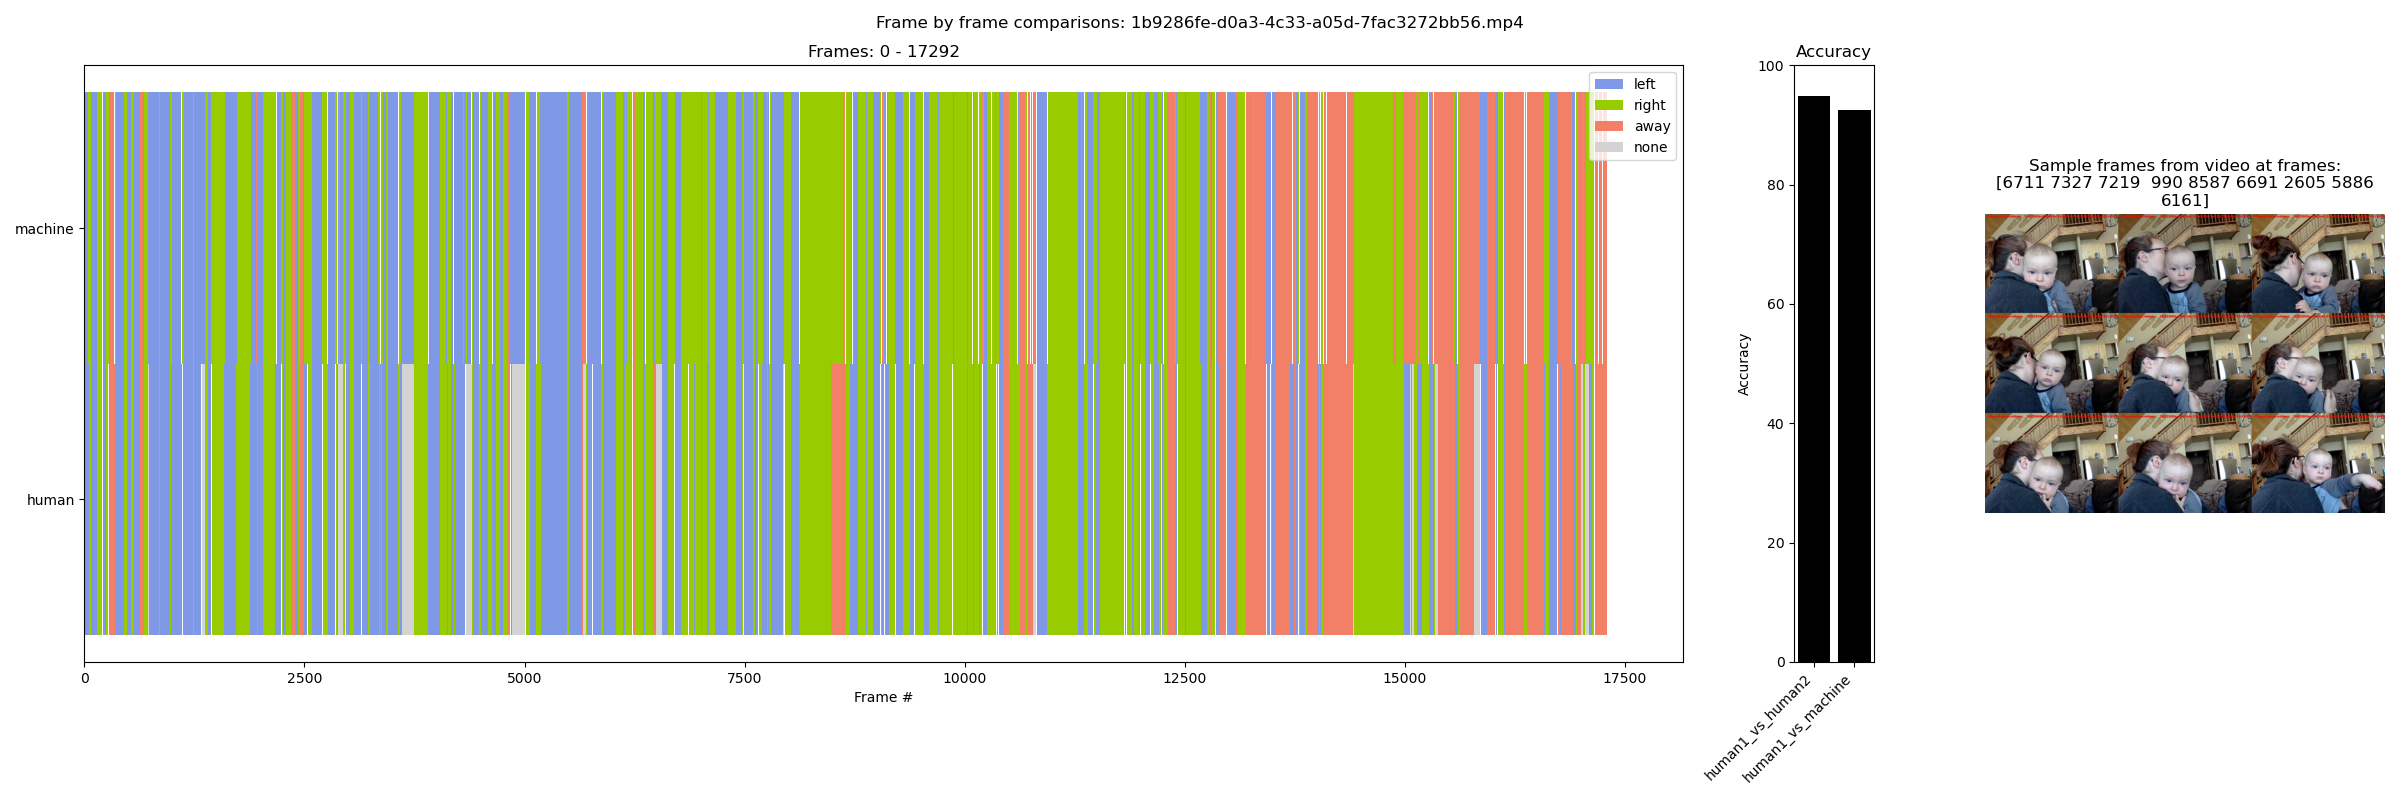
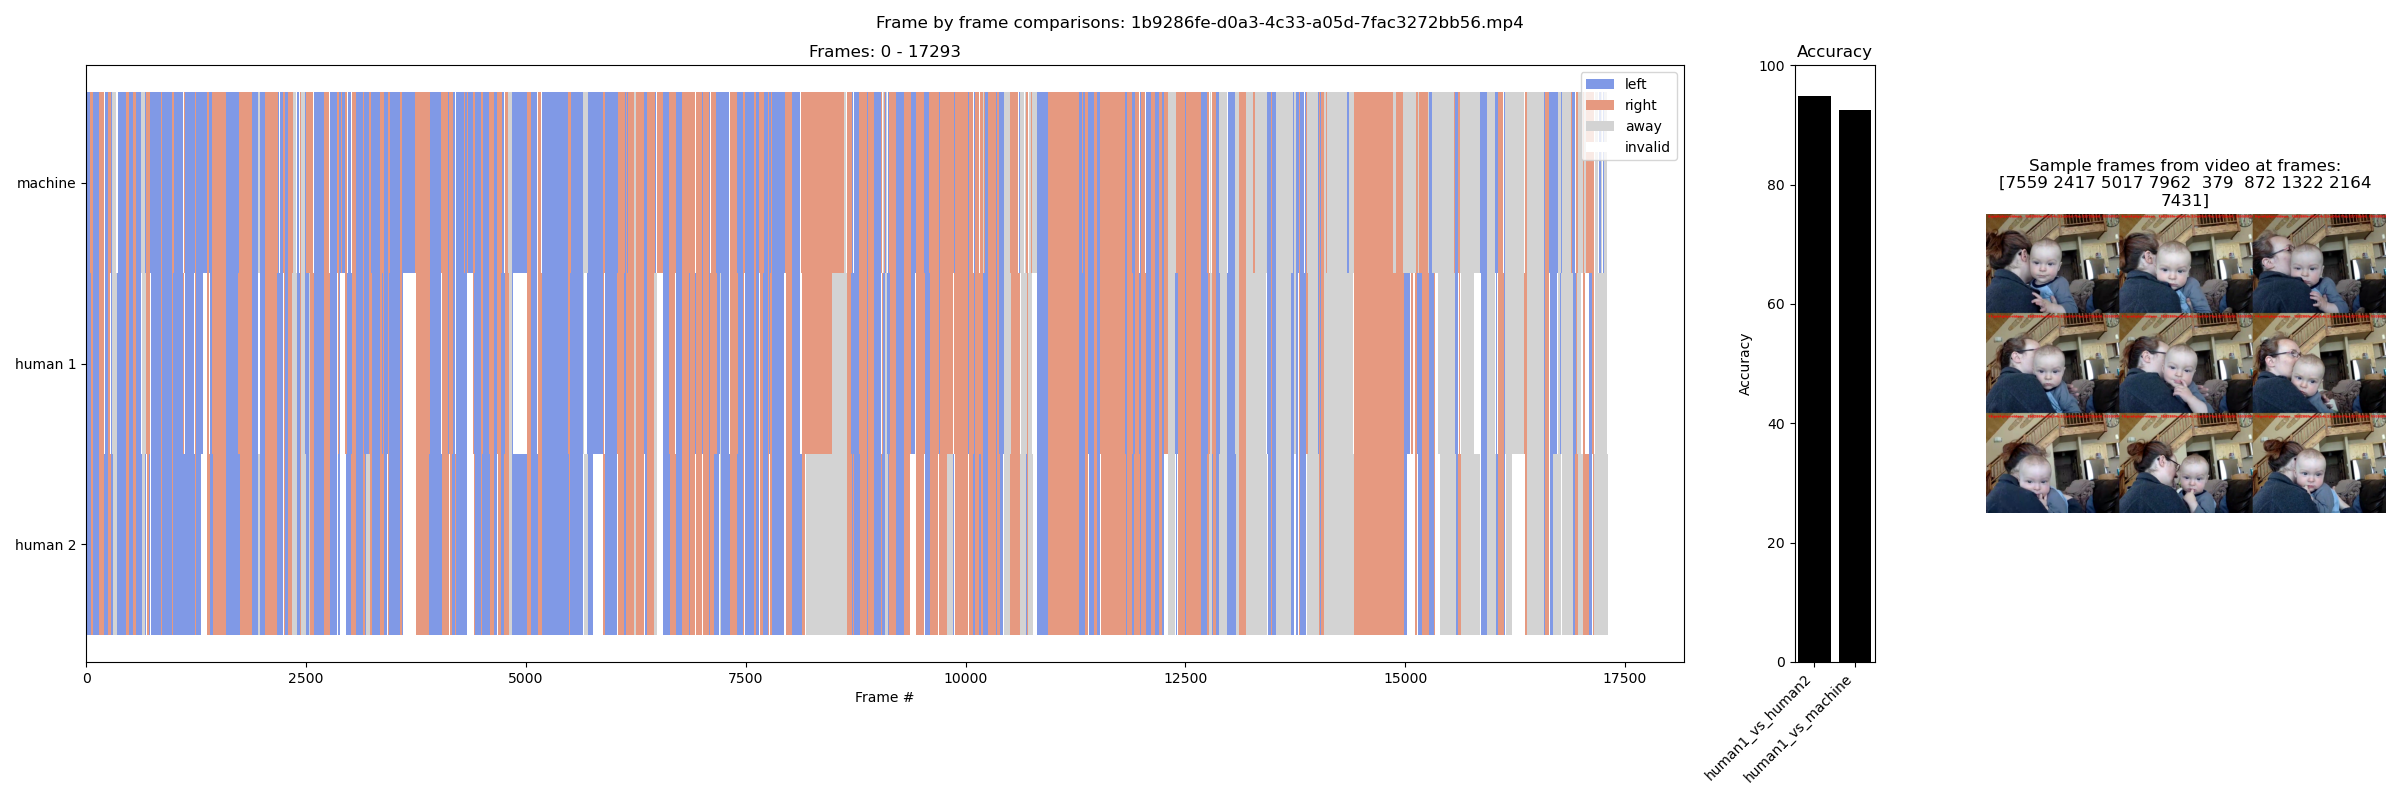
updated visualizations a bit.

diff --git a/visualize.py b/visualize.py
@@ -16,10 +16,13 @@ from pathlib import Path
 from options import parse_arguments_for_visualizations
 import textwrap
 
-### todo: retrieve globals from command line arguments ###
-LABEL_TO_COLOR = {"left": (0.5, 0.6, 0.9), "right": (0.6, 0.8, 0), "away": (0.95, 0.5, 0.4), "none": "lightgrey"}
-# logging.basicConfig(level=logging.CRITICAL)
-###########################################################
+
+def label_to_color(label):
+    mapping = {"left": (0.5, 0.6, 0.9),
+               "right": (0.9, 0.6, 0.5),
+               "away": "lightgrey",
+               "invalid": "white"}
+    return mapping[label]
 
 
 def calculate_confusion_matrix(label, pred, save_path, mat=None, class_num=3):
@@ -142,14 +145,14 @@ def compare_two_coding_files(coding1, coding2):
     same_count = 0
     diff_count = 0
     times_coding1 = {"left": [],
-                    "right": [],
-                    "away": [],
-                    "none": []}
+                     "right": [],
+                     "away": [],
+                     "invalid": []}
 
     times_coding2 = {"left": [],
-                      "right": [],
-                      "away": [],
-                      "none": []}
+                     "right": [],
+                     "away": [],
+                     "invalid": []}
 
     coding1_by_label = [0, 0, 0]
     coding2_by_label = [0, 0, 0]
@@ -166,8 +169,8 @@ def compare_two_coding_files(coding1, coding2):
     total_frames_coding2 = end2 - start2
     for frame_index in range(start, end):
         if frame_index < coding1[0][0][0]:
-            coding1_label = [None, None, "none"]
-            times_coding1["none"].append(frame_index)
+            coding1_label = [None, None, "invalid"]
+            times_coding1["invalid"].append(frame_index)
         else:
             target_q_np = np.nonzero(frame_index >= coding1_np)[0][-1]
             coding1_label = coding1[0][target_q_np]
@@ -176,11 +179,11 @@ def compare_two_coding_files(coding1, coding2):
                 times_coding1[coding1_label[2]].append(frame_index)
                 valid_labels_coding1 += 1
             else:
-                coding1_label = [None, None, "none"]
-                times_coding1["none"].append(frame_index)
+                coding1_label = [None, None, "invalid"]
+                times_coding1["invalid"].append(frame_index)
         if frame_index < coding2[0][0][0]:
-            coding2_label = [None, None, "none"]
-            times_coding2["none"].append(frame_index)
+            coding2_label = [None, None, "invalid"]
+            times_coding2["invalid"].append(frame_index)
         else:
             inferred_q_np = np.nonzero(frame_index >= coding2_np)[0][-1]
             coding2_label = coding2[0][inferred_q_np]
@@ -189,16 +192,16 @@ def compare_two_coding_files(coding1, coding2):
                 times_coding2[coding2_label[2]].append(frame_index)
                 valid_labels_coding2 += 1
             else:
-                coding2_label = [None, None, "none"]
-                times_coding2["none"].append(frame_index)
+                coding2_label = [None, None, "invalid"]
+                times_coding2["invalid"].append(frame_index)
 
-        if coding1_label[2] != "none":
+        if coding1_label[2] != "invalid":
             assert coding1_label[2] in classes.keys()
             coding1_by_label[classes[coding1_label[2]]] += 1
-        if coding2_label[2] != "none":
+        if coding2_label[2] != "invalid":
             assert coding2_label[2] in classes.keys()
             coding2_by_label[classes[coding2_label[2]]] += 1
-        if coding1_label[2] != "none" and coding2_label[2] != "none":
+        if coding1_label[2] != "invalid" and coding2_label[2] != "invalid":
             assert coding1_label[2] in classes.keys()
             if coding1_label[2] == coding2_label[2]:
                 same_count += 1
@@ -321,10 +324,10 @@ def sample_luminance(ID, args, start, end, num_samples=10):
 
 
 def generate_frame_by_frame_comparisons(sorted_IDs, all_metrics, args):
-    GRAPH_CLASSES = ["left", "right", "away", "none"]
-    INFERENCE_METHODS = ["human1_vs_human2", "human1_vs_machine"]
+    GRAPH_CLASSES = ["left", "right", "away", "invalid"]
     widths = [20, 1, 5]
     heights = [1]
+    skip = 10
     gs_kw = dict(width_ratios=widths, height_ratios=heights)
     # fig, axs = plt.subplots(len(sorted_IDs), 3, figsize=(30, 45), gridspec_kw=gs_kw)
     # if len(axs.shape) == 1:
@@ -337,29 +340,48 @@ def generate_frame_by_frame_comparisons(sorted_IDs, all_metrics, args):
         fig, axs = plt.subplots(1, 3, figsize=(24.0, 8.0), gridspec_kw=gs_kw)
         timeline, accuracy, sample_frame = axs  # won't work with single video...
         plt.suptitle('Frame by frame comparisons: {}'.format(target_ID + ".mp4"))
-        start1, end1 = all_metrics[target_ID]["human1_vs_machine"]["valid_range_coding1"]
-        start2, end2 = all_metrics[target_ID]["human1_vs_machine"]["valid_range_coding2"]
-        start = min(start1, start2)
-        end = max(end1, end2)
+        start1, end1 = all_metrics[target_ID]["human1_vs_human2"]["valid_range_coding2"]
+        start2, end2 = all_metrics[target_ID]["human1_vs_human2"]["valid_range_coding1"]
+        start3, end3 = all_metrics[target_ID]["human1_vs_machine"]["valid_range_coding2"]
+        start = min(start1, start2, start3)
+        end = max(end1, end2, end3)
         timeline.set_title("Frames: {} - {}".format(str(start), str(end)))
-        for j, name in enumerate(["times_coding1", "times_coding2"]):
-            times = all_metrics[target_ID]["human1_vs_machine"][name]
-            video_label = "human" if j==0 else "machine"
-            skip = 10  # frame comparison resolution. Increase to speed up plotting
+
+        times1 = all_metrics[target_ID]["human1_vs_human2"]["times_coding2"]
+        times2 = all_metrics[target_ID]["human1_vs_human2"]["times_coding1"]
+        times3 = all_metrics[target_ID]["human1_vs_machine"]["times_coding2"]
+        times = [times1, times2, times3]
+        video_label = ["human 2", "human 1", "machine"]
+
+        for j, vid_label in enumerate(video_label):
             for label in GRAPH_CLASSES:
-                timeline.barh(video_label, skip, left=times[label][::skip],
+                timeline.barh(vid_label, skip, left=times[j][label][::skip],
                               height=1, label=label,
-                              color=LABEL_TO_COLOR[label])
+                              color=label_to_color(label))
             timeline.set_xlabel("Frame #")
             if j == 0:
                 timeline.legend(loc='upper right')
                 accuracy.set_title("Accuracy")
-        accuracies = [all_metrics[target_ID][inference]['accuracy'] for inference in INFERENCE_METHODS]
+
+        # for j, name in enumerate(["times_coding1", "times_coding2"]):
+        #     times = all_metrics[target_ID]["human1_vs_machine"][name]
+        #     video_label = "human" if j==0 else "machine"
+        #     skip = 10  # frame comparison resolution. Increase to speed up plotting
+        #     for label in GRAPH_CLASSES:
+        #         timeline.barh(video_label, skip, left=times[label][::skip],
+        #                       height=1, label=label,
+        #                       color=label_to_color(label))
+        #     timeline.set_xlabel("Frame #")
+        #     if j == 0:
+        #         timeline.legend(loc='upper right')
+        #         accuracy.set_title("Accuracy")
+        inference = ["human1_vs_human2", "human1_vs_machine"]
+        accuracies = [all_metrics[target_ID][entry]['accuracy'] for entry in inference]
         # colors = [color_gradient[int(acc * 100)].rgb for acc in accuracies]
 
-        accuracy.bar(range(len(INFERENCE_METHODS)), accuracies, color="black")
-        accuracy.set_xticks(range(len(INFERENCE_METHODS)))
-        accuracy.set_xticklabels(INFERENCE_METHODS, rotation=45, ha="right")
+        accuracy.bar(range(len(inference)), accuracies, color="black")
+        accuracy.set_xticks(range(len(inference)))
+        accuracy.set_xticklabels(inference, rotation=45, ha="right")
         accuracy.set_ylim([0, 100])
         accuracy.set_ylabel("Accuracy")
         # sample_frame_index = min(
@@ -455,7 +477,7 @@ def generate_plot_collage(sorted_IDs, all_metrics, inference, save_path):
     for i, label in enumerate(sorted(classes.keys())):
         x_labels = [y[i] / sum(y) for y in [all_metrics[ID][inference]['coding2_by_label'] for ID in sorted_IDs]]
         y_labels = [y[i] / sum(y) for y in [all_metrics[ID][inference]['coding1_by_label'] for ID in sorted_IDs]]
-        label_scatter.scatter(x_labels, y_labels, color=LABEL_TO_COLOR[label], label=label)
+        label_scatter.scatter(x_labels, y_labels, color=label_to_color(label), label=label)
         for n in range(len(sorted_IDs)):
             label_scatter.annotate(n, (x_labels[n], y_labels[n]))
     label_scatter.set_xlabel(f'{inf_target} label proportion')
@@ -472,9 +494,9 @@ def generate_plot_collage(sorted_IDs, all_metrics, inference, save_path):
         label_counts_tar = [y[i] / sum(y) for y in [all_metrics[ID][inference]['coding1_by_label'] for ID in sorted_IDs]]
 
         label_bar.bar(x - 0.22, label_counts_inf, bottom=bottoms_inf, width=0.4, label=label,
-                      color=LABEL_TO_COLOR[label])
+                      color=label_to_color(label))
         label_bar.bar(x + 0.22, label_counts_tar, bottom=bottoms_tar, width=0.4, label=label,
-                      color=LABEL_TO_COLOR[label])
+                      color=label_to_color(label))
 
         bottoms_inf += label_counts_inf
         bottoms_tar += label_counts_tar
